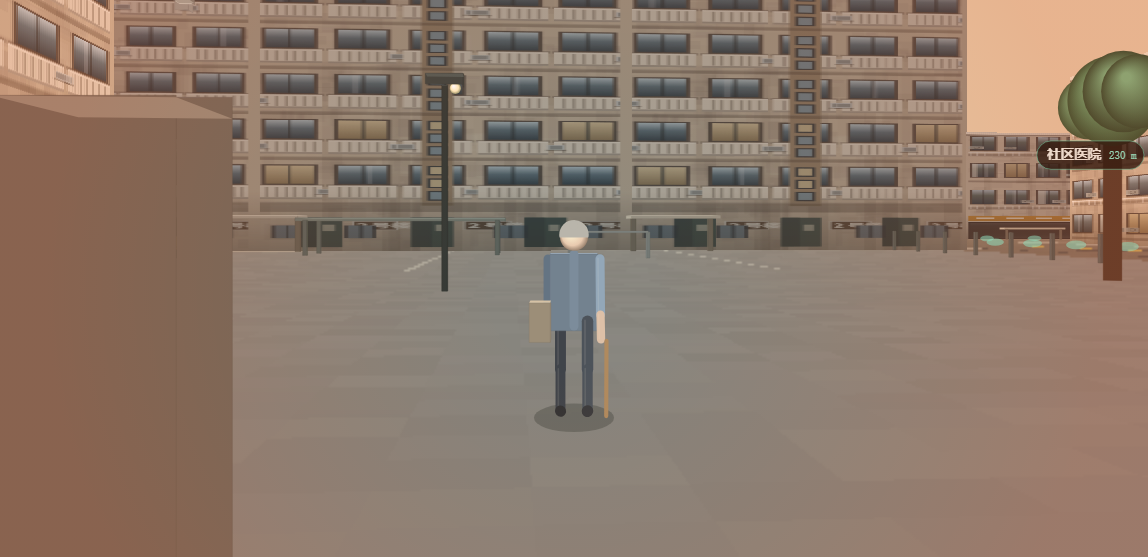
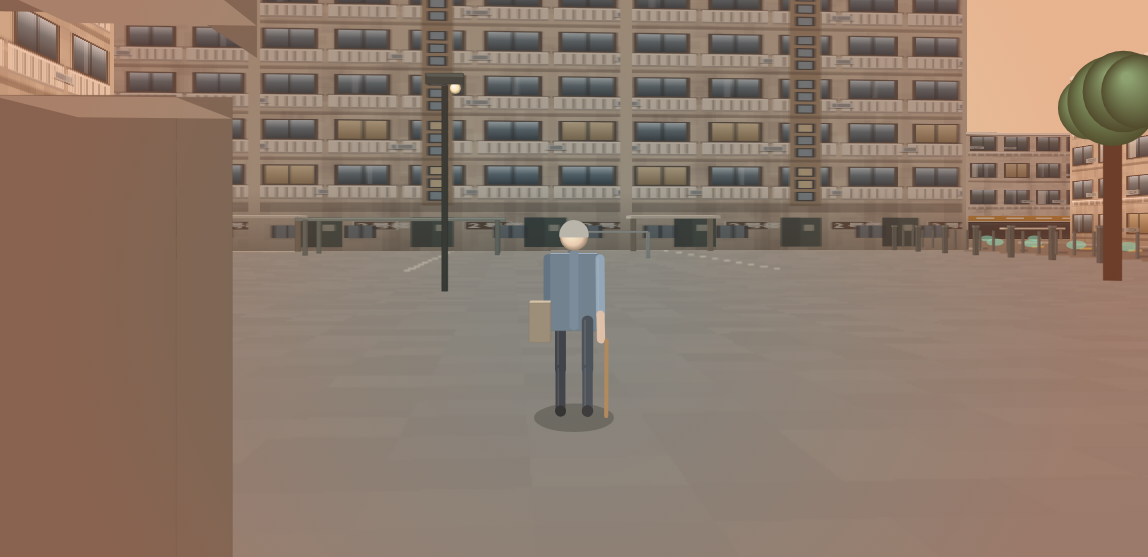
fix(coolpath): 模拟世界与规划地图布局对齐（小学/住宅B标签互换，菜场/老住宅A/驿站建筑形态匹配）

diff --git a/climate-hackathon/coolpath/coolpath.html b/climate-hackathon/coolpath/coolpath.html
@@ -468,9 +468,9 @@ footer{border-top:1px solid var(--line);padding:44px 0 60px;margin-top:30px}
               <text x="468" y="290">街心公园</text>
               <text x="56" y="216">便民菜场</text>
               <text x="688" y="216">快递驿站</text>
-              <text x="212" y="414">社区小学</text>
+              <text x="212" y="414">住宅 B</text>
               <text x="470" y="414" fill="#9AA5A0">社区医院</text>
-              <text x="688" y="414">住宅 B</text>
+              <text x="688" y="414">社区小学</text>
               <text x="56" y="414">住宅 C</text>
             </g>
 
@@ -1712,6 +1712,9 @@ footer{border-top:1px solid var(--line);padding:44px 0 60px;margin-top:30px}
         if(y === 8 && x >= 11 && x <= 15){ t = 4; hh = 0.52; }          /* 社区医院 */
         else if(y === 11 && x >= 5 && x <= 9){ t = 1; hh = 0.6; }       /* 沿街商铺 */
         else if(y === 6 && x >= 5 && x <= 9){ t = 1; hh = 0.58; }
+        else if(y >= 3 && y <= 6 && x <= 3){ t = 1; hh = 0.32 + (hb % 3) * 0.02; }   /* 便民菜场 · 低矮棚屋 */
+        else if(y >= 3 && y <= 5 && x >= 5 && x <= 9){ t = 3; hh = 0.50 + (hb % 3) * 0.03; } /* 老城住宅A · 砖楼 */
+        else if(y >= 3 && y <= 6 && x >= 17){ t = 1; hh = 0.44 + (hb % 3) * 0.02; }  /* 快递驿站 · 沿街 */
         else if(y <= 2){ t = 2; hh = 0.74 + (hb % 4) * 0.045; }         /* 北侧公寓 */
         else if(y === 8 && x <= 3){ t = 5; hh = 0.80; }                 /* 住宅C · 2号楼（6层板楼） */
         else if(y === 10 && x === 1){ t = 6; hh = 0.66; }               /* 住宅C · 3号楼（5层） */
@@ -1833,12 +1836,27 @@ footer{border-top:1px solid var(--line);padding:44px 0 60px;margin-top:30px}
       var rot = Math.atan2(y2-y1, x2-x1);
       var mx = (x1+x2)/2, my = (y1+y2)/2;
       var c = C("#5A6663");
-      box(mx, my, 0.046, 0.051, len/2, 0.0022, rot, c);
-      box(mx, my, 0.012, 0.017, len/2, 0.0022, rot, c);
+      /* 混凝土基座（接地，立体感的根） */
+      box(mx, my, 0, 0.010, len/2, 0.011, rot, C("#9AA09A"));
+      box(mx, my, 0.010, 0.0125, len/2, 0.0095, rot, C("#8C918B"));
+      /* 三根横杆：各有截面厚度，顶杆最粗 */
+      box(mx, my, 0.054, 0.066, len/2, 0.0034, rot, c);
+      box(mx, my, 0.017, 0.025, len/2, 0.0026, rot, c);
+      box(mx, my, 0.036, 0.040, len/2, 0.0020, rot, C("#525E5B"));
+      /* 方柱 + 柱帽 */
       var n = Math.max(3, Math.round(len/0.16));
       for(var i=0;i<=n;i++){
         var t = i/n;
-        box(x1 + (x2-x1)*t, y1 + (y2-y1)*t, 0, 0.058, 0.0036, 0.0036, rot, c);
+        var px = x1 + (x2-x1)*t, py = y1 + (y2-y1)*t;
+        box(px, py, 0, 0.070, 0.0050, 0.0050, rot, C("#4E5A57"));
+        box(px, py, 0.070, 0.0745, 0.0064, 0.0064, rot, C("#6B7572"));
+      }
+      /* 竖向栏杆：拉出围栏的进深 */
+      var m = Math.max(2, Math.round(len/0.062));
+      for(var j=1;j<m;j++){
+        var t2 = j/m;
+        box(x1 + (x2-x1)*t2, y1 + (y2-y1)*t2,
+            0.013, 0.062, 0.0020, 0.0020, rot, C("#5E6A67"));
       }
     }
     function addGate(x, y, rot, wide, hi, pillar, leaf){
@@ -1848,6 +1866,9 @@ footer{border-top:1px solid var(--line);padding:44px 0 60px;margin-top:30px}
       box(a[0], a[1], 0, hi, 0.016, 0.016, rot, pillar);
       box(b[0], b[1], 0, hi, 0.016, 0.016, rot, pillar);
       box(x, y, hi, hi+0.014, 0.013, wide/2, rot + Math.PI/2, pillar);
+      /* 柱帽 */
+      box(a[0], a[1], hi+0.014, hi+0.021, 0.020, 0.020, rot, pillar);
+      box(b[0], b[1], hi+0.014, hi+0.021, 0.020, 0.020, rot, pillar);
       /* 门楣横匾（大门敞开，可穿行） */
       box(x, y, hi*0.62, hi*0.80, 0.011, wide*0.30, rot + Math.PI/2, leaf);
     }
@@ -1882,25 +1903,55 @@ footer{border-top:1px solid var(--line);padding:44px 0 60px;margin-top:30px}
       addFence(1.05, 11.86, 2.20, 11.86);       /* 南围栏（西段，贴西楼东墙） */
       addFence(3.00, 11.86, 3.85, 11.86);       /* 南围栏（东段） */
       addGate(2.60, 11.86, 0, 0.80, 0.098, C("#8C8375"), C("#D8D2C4"));
-      /* 非机动车棚（贴 2 号楼南墙） */
-      box(2.40, 9.30, 0.086, 0.094, 0.26, 0.10, 0, C("#7C8A84"));
-      var cp = [[2.16,9.22],[2.64,9.22],[2.16,9.38],[2.64,9.38]];
-      for(i=0;i<cp.length;i++) box(cp[i][0], cp[i][1], 0, 0.088, 0.005, 0.005, 0, C("#66726D"));
+      /* 非机动车棚（贴 2 号楼南墙，真实比例 3.4m×2.2m，有圈梁边梁） */
+      box(2.40, 9.30, 0.078, 0.084, 0.075, 0.048, 0, C("#7C8A84"));
+      box(2.40, 9.30, 0.0745, 0.078, 0.078, 0.051, 0, C("#6E7A76"));
+      var cp = [[2.145,9.258],[2.655,9.258],[2.145,9.342],[2.655,9.342]];
+      for(i=0;i<cp.length;i++){
+        box(cp[i][0], cp[i][1], 0, 0.0745, 0.0055, 0.0055, 0, C("#66726D"));
+      }
+      /* 四条边梁连接柱顶，棚顶不再悬空 */
+      box(2.40, 9.258, 0.070, 0.0745, 0.075, 0.0038, 0, C("#5F6B67"));
+      box(2.40, 9.342, 0.070, 0.0745, 0.075, 0.0038, 0, C("#5F6B67"));
+      box(2.145, 9.30, 0.070, 0.0745, 0.0038, 0.042, 0, C("#5F6B67"));
+      box(2.655, 9.30, 0.070, 0.0745, 0.0038, 0.042, 0, C("#5F6B67"));
+      /* 棚下两辆自行车（双轮+斜梁+座杆） */
+      var bk = [[2.26,9.272],[2.54,9.328]];
+      for(i=0;i<bk.length;i++){
+        ball(bk[i][0]-0.0210, bk[i][1], 0.0090, 0.0090, C("#3C4642"));
+        ball(bk[i][0]+0.0210, bk[i][1], 0.0090, 0.0090, C("#3C4642"));
+        box(bk[i][0], bk[i][1], 0.006, 0.026, 0.018, 0.0015, 0, C(i ? "#B4593E" : "#4E7A8C"));
+        box(bk[i][0]+0.009, bk[i][1], 0.026, 0.031, 0.0028, 0.0015, 0, C("#565E5A"));
+        box(bk[i][0]-0.018, bk[i][1], 0.020, 0.024, 0.0045, 0.0015, 0, C("#8C8375"));
+      }
       /* 2 号楼单元门雨棚（贴南墙，与贴图单元门对位） */
       var uc2 = [0.75, 1.95, 3.15];
       for(i=0;i<uc2.length;i++){
-        box(uc2[i], 9.06, 0.095, 0.104, 0.13, 0.060, 0, C("#B7B2A4"));
-        box(uc2[i]-0.115, 9.05, 0, 0.095, 0.007, 0.007, 0, C("#6E6A5E"));
-        box(uc2[i]+0.115, 9.05, 0, 0.095, 0.007, 0.007, 0, C("#6E6A5E"));
+        box(uc2[i], 9.06, 0.095, 0.102, 0.058, 0.042, 0, C("#B7B2A4"));
+        box(uc2[i], 9.05, 0.102, 0.106, 0.062, 0.046, 0, C("#A9A396"));
+        box(uc2[i]-0.052, 9.062, 0, 0.095, 0.006, 0.006, 0, C("#6E6A5E"));
+        box(uc2[i]+0.052, 9.062, 0, 0.095, 0.006, 0.006, 0, C("#6E6A5E"));
       }
       /* 3 号楼单元门雨棚（贴北墙） */
-      box(1.19, 9.95, 0.088, 0.097, 0.10, 0.050, 0, C("#B7B2A4"));
-      box(1.10, 9.94, 0, 0.088, 0.006, 0.006, 0, C("#6E6A5E"));
-      box(1.28, 9.94, 0, 0.088, 0.006, 0.006, 0, C("#6E6A5E"));
-      /* 晾衣架 */
-      box(2.90, 9.62, 0.058, 0.062, 0.09, 0.004, 0, C("#9AA3A0"));
-      box(2.81, 9.62, 0, 0.060, 0.004, 0.004, 0, C("#8A9390"));
-      box(2.99, 9.62, 0, 0.060, 0.004, 0.004, 0, C("#8A9390"));
+      box(1.19, 9.95, 0.088, 0.096, 0.055, 0.038, 0, C("#B7B2A4"));
+      box(1.19, 9.95, 0.096, 0.100, 0.059, 0.042, 0, C("#A9A396"));
+      box(1.142, 9.948, 0, 0.088, 0.006, 0.006, 0, C("#6E6A5E"));
+      box(1.238, 9.948, 0, 0.088, 0.006, 0.006, 0, C("#6E6A5E"));
+      /* 晾衣架（双层横杆 + 吊柱 + 底脚撑 + 晾晒衣物） */
+      box(2.90, 9.62, 0.058, 0.062, 0.09, 0.0035, 0, C("#9AA3A0"));
+      box(2.90, 9.62, 0.038, 0.042, 0.086, 0.0035, 0, C("#98A09B"));
+      box(2.86, 9.62, 0.038, 0.058, 0.0022, 0.0022, 0, C("#8A9390"));
+      box(2.90, 9.62, 0.038, 0.058, 0.0022, 0.0022, 0, C("#8A9390"));
+      box(2.94, 9.62, 0.038, 0.058, 0.0022, 0.0022, 0, C("#8A9390"));
+      box(2.81, 9.62, 0, 0.062, 0.005, 0.005, 0, C("#8A9390"));
+      box(2.99, 9.62, 0, 0.062, 0.005, 0.005, 0, C("#8A9390"));
+      box(2.81, 9.62, 0.002, 0.008, 0.005, 0.018, 0, C("#8A9390"));
+      box(2.99, 9.62, 0.002, 0.008, 0.005, 0.018, 0, C("#8A9390"));
+      /* 晾晒的衣物 */
+      box(2.845, 9.62, 0.044, 0.058, 0.008, 0.0006, 0, C("#AFC4CE"));
+      box(2.878, 9.62, 0.046, 0.058, 0.006, 0.0006, 0, C("#E8E2D2"));
+      box(2.912, 9.62, 0.044, 0.056, 0.007, 0.0006, 0, C("#D9A48C"));
+      box(2.946, 9.62, 0.046, 0.058, 0.006, 0.0006, 0, C("#B9C0AE"));
       /* 院内绿化与歇脚处 */
       addTree(1.35, 9.52, 310);
       addTree(3.50, 10.48, 347);

diff --git a/climate-hackathon/coolpath/shot_sim.py b/climate-hackathon/coolpath/shot_sim.py
@@ -74,6 +74,13 @@ if __name__ == "__main__":
         "walk2":  {"x":9.0,  "y":12.3, "a":1.57, "wait":1100,"keys":["KeyW"]},
         "yard":   {"x":2.7,  "y":11.30,"a":-1.50,"wait":420},
         "yard2":  {"x":2.7,  "y":10.75,"a":-1.57,"wait":420},
+        "shed":   {"x":2.35, "y":9.55, "a":-1.57,"wait":420},
+        "dry":    {"x":2.9,  "y":10.30,"a":1.57, "wait":420},
+        "unit":   {"x":1.95, "y":9.85, "a":-1.57,"wait":420},
+        "gwall":  {"x":3.30, "y":11.20,"a":1.57, "wait":420},
+        "market": {"x":2.20, "y":7.45, "a":-1.57,"wait":420},
+        "oldA":   {"x":7.00, "y":7.45, "a":-1.57,"wait":420},
+        "parcel": {"x":17.5, "y":7.45, "a":-1.57,"wait":420},
         "resc":   {"x":2.6,  "y":7.42, "a":1.50, "wait":420},
         "enter":  {"x":2.6,  "y":12.30,"a":-1.57,"wait":1400,"keys":["KeyW"]},
     }
